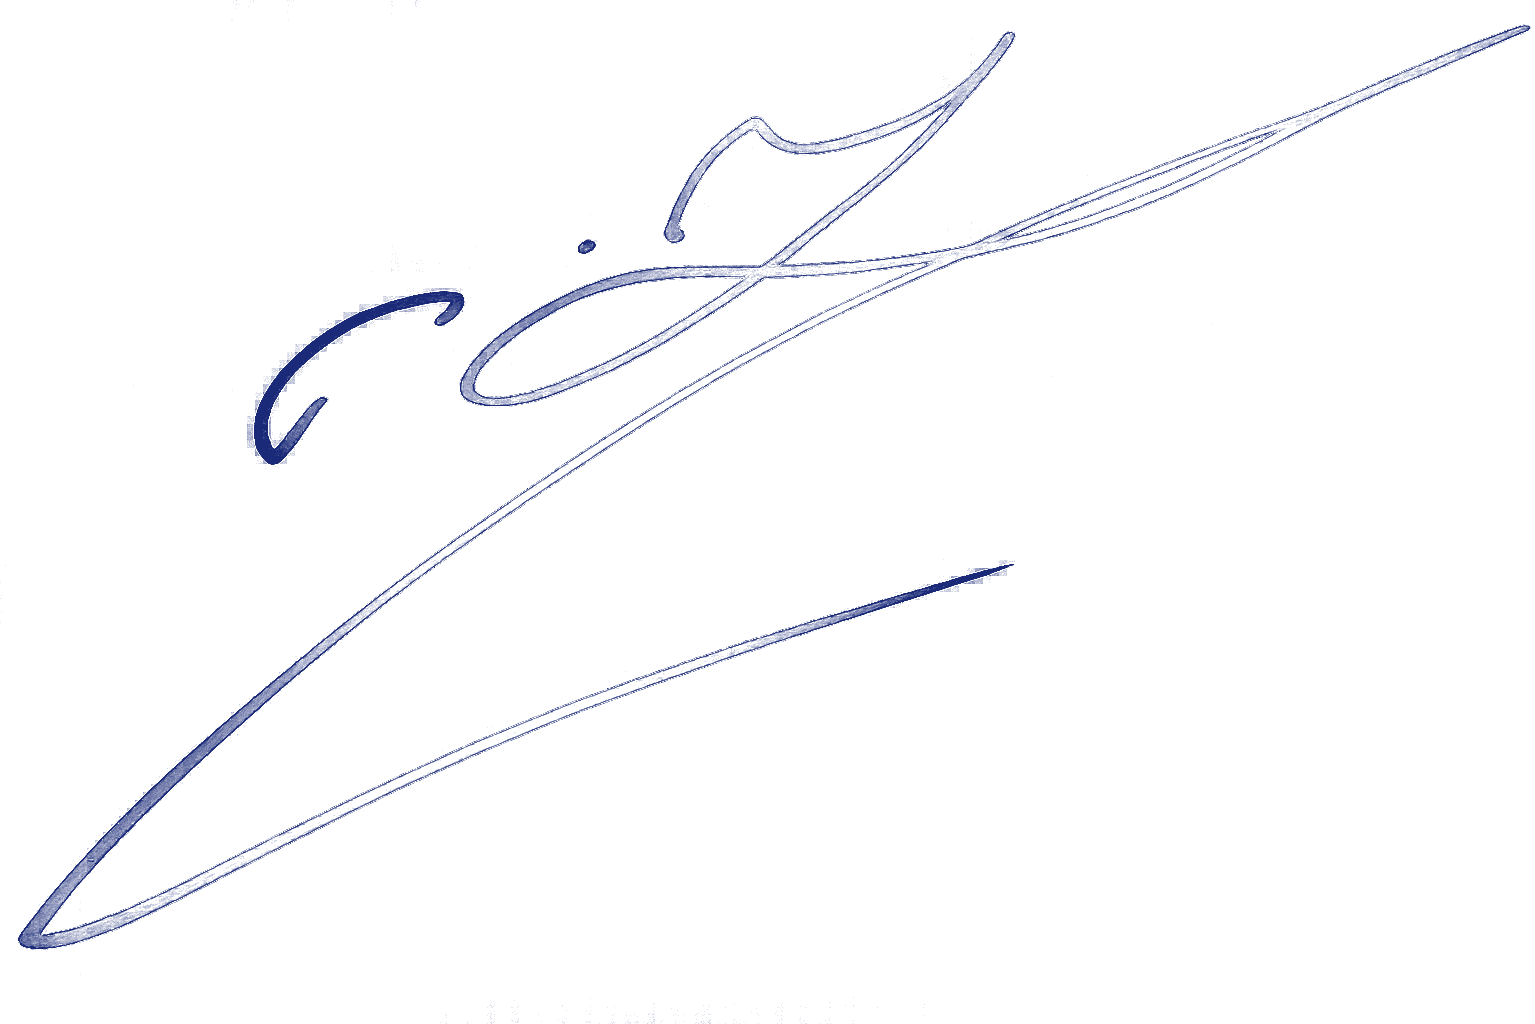
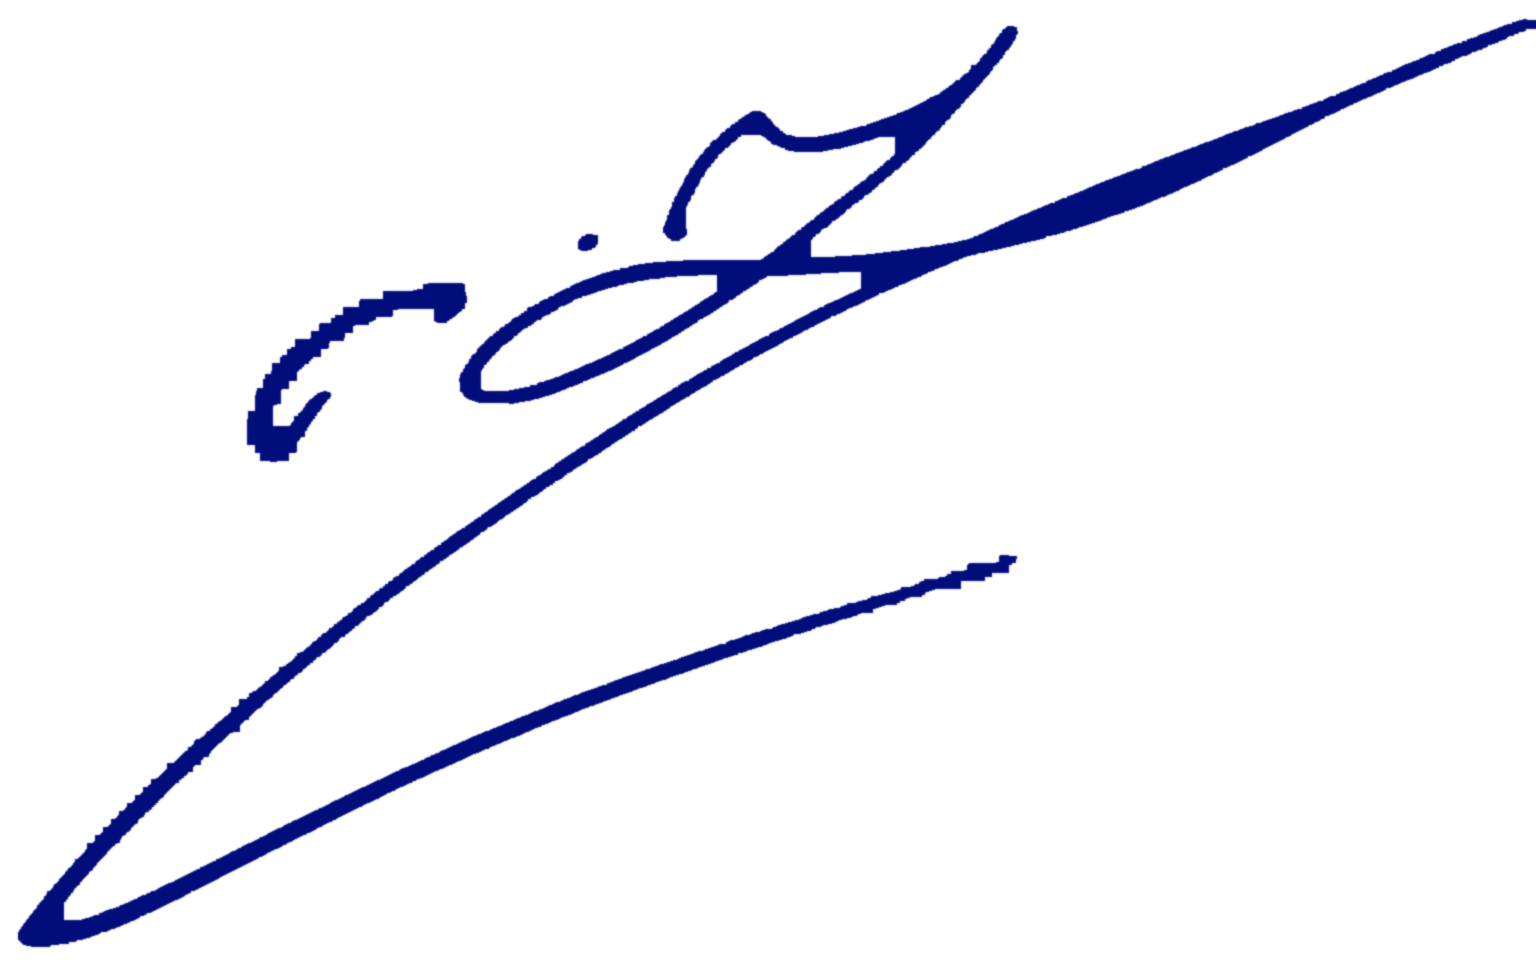
Fix confirmation-letter signature: solid true-blue ink, no pale/hollow strokes
The first extraction kept only stroke edges with a ramped alpha, so the signature
rendered pale and hollow. Rework: high-pass now only locates the signature; the
strokes are filled via morphological close, texture specks dropped via connected-
component filtering, and the result is painted solid at full opacity in the real
sampled ink blue (0,13,122). Accent dot preserved.

Changed region(s): [[0.0, 0.0621, 0.8879, 0.9938], [0.8879, 0.0, 1.0, 0.0932], [0.643, 0.0311, 0.6736, 0.0621]]

diff --git a/scripts/process_signature.py b/scripts/process_signature.py
@@ -1,40 +1,93 @@
-"""Extract the blue ink signature from BlueInk.png.
-The background is a SMOOTH gradient (light gray -> dark navy band) that shares the ink's
-colour, so colour keying fails. The signature is the only HIGH-FREQUENCY content, so we
-isolate it with a high-pass filter (grayscale minus a heavy gaussian blur). Soft alpha
-ramp for anti-aliasing, uniform ink-navy colour, transparent background, cropped tight.
-Output -> src/assets/signature-levani.png"""
+"""Extract the blue ink signature from BlueInk.png as a SOLID, true-colour signature.
+
+Background is a smooth gradient (light gray -> dark navy band) sharing the ink's colour,
+so colour keying alone fails. Strategy:
+  1. Locate the signature with a high-pass filter (smooth bg -> ~0, sharp ink -> strong).
+  2. Threshold -> binary, morphological CLOSE to fill the hollow pen-stroke interiors.
+  3. Drop texture-noise specks via connected-component size filtering (keep big strokes).
+  4. Paint the mask with the REAL ink blue sampled from the source at FULL opacity
+     (only a 1px boundary is anti-aliased) -> solid, no paleness, no hollow strokes.
+Output -> src/assets/signature-levani.png (transparent PNG)."""
 from PIL import Image, ImageFilter
 import numpy as np
+from collections import deque
 import os
 
 SRC = r"C:\Users\user\Desktop\BlueInk.png"
 DST = os.path.abspath(os.path.join(os.path.dirname(__file__), "..", "src", "assets", "signature-levani.png"))
-INK = (26, 42, 120)  # deep royal-blue pen ink
+MIN_COMPONENT = 150   # px; smaller blobs are background texture noise (keeps the accent dot ~204px)
 
-g = Image.open(SRC).convert("L")
-gf = np.asarray(g).astype(np.float32)
-blur = np.asarray(g.filter(ImageFilter.GaussianBlur(28))).astype(np.float32)
-hp = np.abs(gf - blur)                       # ~0 on smooth bg, large on signature strokes
+rgb = Image.open(SRC).convert("RGB")
+arr = np.asarray(rgb).astype(np.float32)
+r, g, b = arr[..., 0], arr[..., 1], arr[..., 2]
+mx = arr.max(2); mn = arr.min(2)
+sat = np.where(mx > 0, (mx - mn) / np.maximum(mx, 1e-6), 0.0)
 
-alpha = np.clip((hp - 5.0) / (20.0 - 5.0), 0.0, 1.0) ** 0.8   # soft ramp + lift faint tails
-alpha255 = (alpha * 255).astype(np.uint8)
+gray = rgb.convert("L")
+gf = np.asarray(gray).astype(np.float32)
+blur = np.asarray(gray.filter(ImageFilter.GaussianBlur(28))).astype(np.float32)
+hp = np.abs(gf - blur)
 
-h, w = alpha.shape
-rgba = np.zeros((h, w, 4), np.uint8)
-rgba[..., 0] = INK[0]; rgba[..., 1] = INK[1]; rgba[..., 2] = INK[2]
-rgba[..., 3] = alpha255
+ink_sel = (hp > 8) & (sat > 0.5) & (b > 85)
+ink = np.array([int(np.median(arr[..., c][ink_sel])) for c in range(3)], np.uint8)
+print(f"ink colour = {tuple(int(x) for x in ink)}  ({int(ink_sel.sum())} sample px)")
+
+# binary + morphological close to solidify outlined strokes
+mask = Image.fromarray(((hp > 6).astype(np.uint8) * 255), "L")
+for _ in range(3):
+    mask = mask.filter(ImageFilter.MaxFilter(7))   # dilate
+for _ in range(3):
+    mask = mask.filter(ImageFilter.MinFilter(7))   # erode -> close
+binary = np.asarray(mask) > 128
+
+# connected components (8-connectivity), keep only large ones
+H, W = binary.shape
+labels = np.zeros((H, W), np.int32)
+sizes = {}
+cur = 0
+ys, xs = np.nonzero(binary)
+for y0, x0 in zip(ys.tolist(), xs.tolist()):
+    if labels[y0, x0]:
+        continue
+    cur += 1
+    cnt = 0
+    dq = deque([(y0, x0)])
+    labels[y0, x0] = cur
+    while dq:
+        y, x = dq.popleft()
+        cnt += 1
+        for dy in (-1, 0, 1):
+            for dx in (-1, 0, 1):
+                ny, nx = y + dy, x + dx
+                if 0 <= ny < H and 0 <= nx < W and binary[ny, nx] and not labels[ny, nx]:
+                    labels[ny, nx] = cur
+                    dq.append((ny, nx))
+    sizes[cur] = cnt
+
+top = sorted(sizes.values(), reverse=True)[:25]
+print(f"components={len(sizes)}  top sizes={top}")
+keep = {l for l, s in sizes.items() if s >= MIN_COMPONENT}
+clean = np.isin(labels, list(keep))
+print(f"kept {len(keep)} components, dropped {len(sizes) - len(keep)} specks")
+
+# restore a touch of weight, anti-alias the boundary
+m = Image.fromarray((clean.astype(np.uint8) * 255), "L")
+m = m.filter(ImageFilter.MaxFilter(3))
+m = m.filter(ImageFilter.GaussianBlur(0.8))
+alpha = np.asarray(m).astype(np.uint8)
+
+rgba = np.zeros((H, W, 4), np.uint8)
+rgba[..., 0] = ink[0]; rgba[..., 1] = ink[1]; rgba[..., 2] = ink[2]
+rgba[..., 3] = alpha
 out = Image.fromarray(rgba, "RGBA")
 
-ys, xs = np.where(alpha > 0.12)
+yy, xx = np.where(alpha > 40)
 pad = 18
-minx, maxx = max(0, xs.min() - pad), min(w, xs.max() + pad + 1)
-miny, maxy = max(0, ys.min() - pad), min(h, ys.max() + pad + 1)
+minx, maxx = max(0, xx.min() - pad), min(W, xx.max() + pad + 1)
+miny, maxy = max(0, yy.min() - pad), min(H, yy.max() + pad + 1)
 out = out.crop((minx, miny, maxx, maxy))
 out.save(DST)
-print(f"kept={(alpha>0.12).mean()*100:.1f}% bbox=({minx},{miny},{maxx},{maxy}) cropped={out.size}")
-print(f"saved -> {DST}")
+print(f"cropped={out.size}  saved -> {DST}")
 
-# preview on white for verification
-bg = Image.new("RGBA", out.size, (255, 255, 255, 255))
-Image.alpha_composite(bg, out).convert("RGB").save(r"C:\Users\user\Desktop\sig_final_white.png")
+bgw = Image.new("RGBA", out.size, (255, 255, 255, 255))
+Image.alpha_composite(bgw, out).convert("RGB").save(r"C:\Users\user\Desktop\sig_solid_white.png")